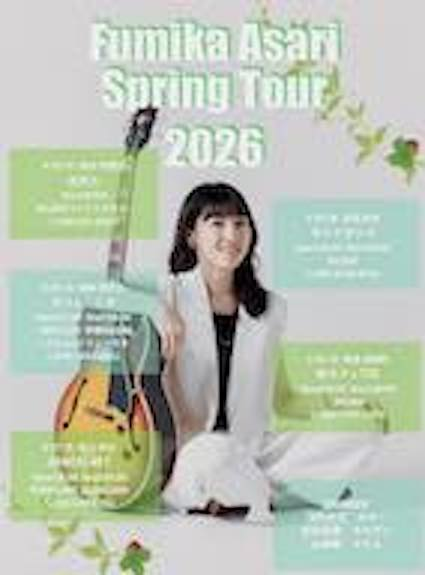
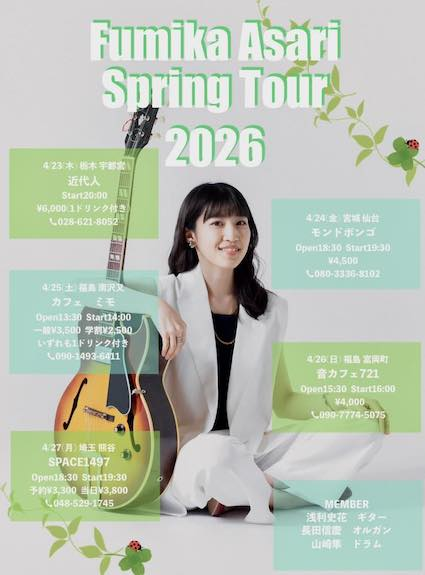
サイズ再調整

diff --git a/news.html b/news.html
@@ -170,7 +170,7 @@
 		高樹レイvo 竹田一彦gt <br>
 		浅利史花gt  平田晃一gt  山本久生ba<br><br>
 
-		<img src="images/kasaitour.jpg"><br><br><br>
+		<img src="images/kanasaitour.jpg"><br><br><br>
 
 
 		
